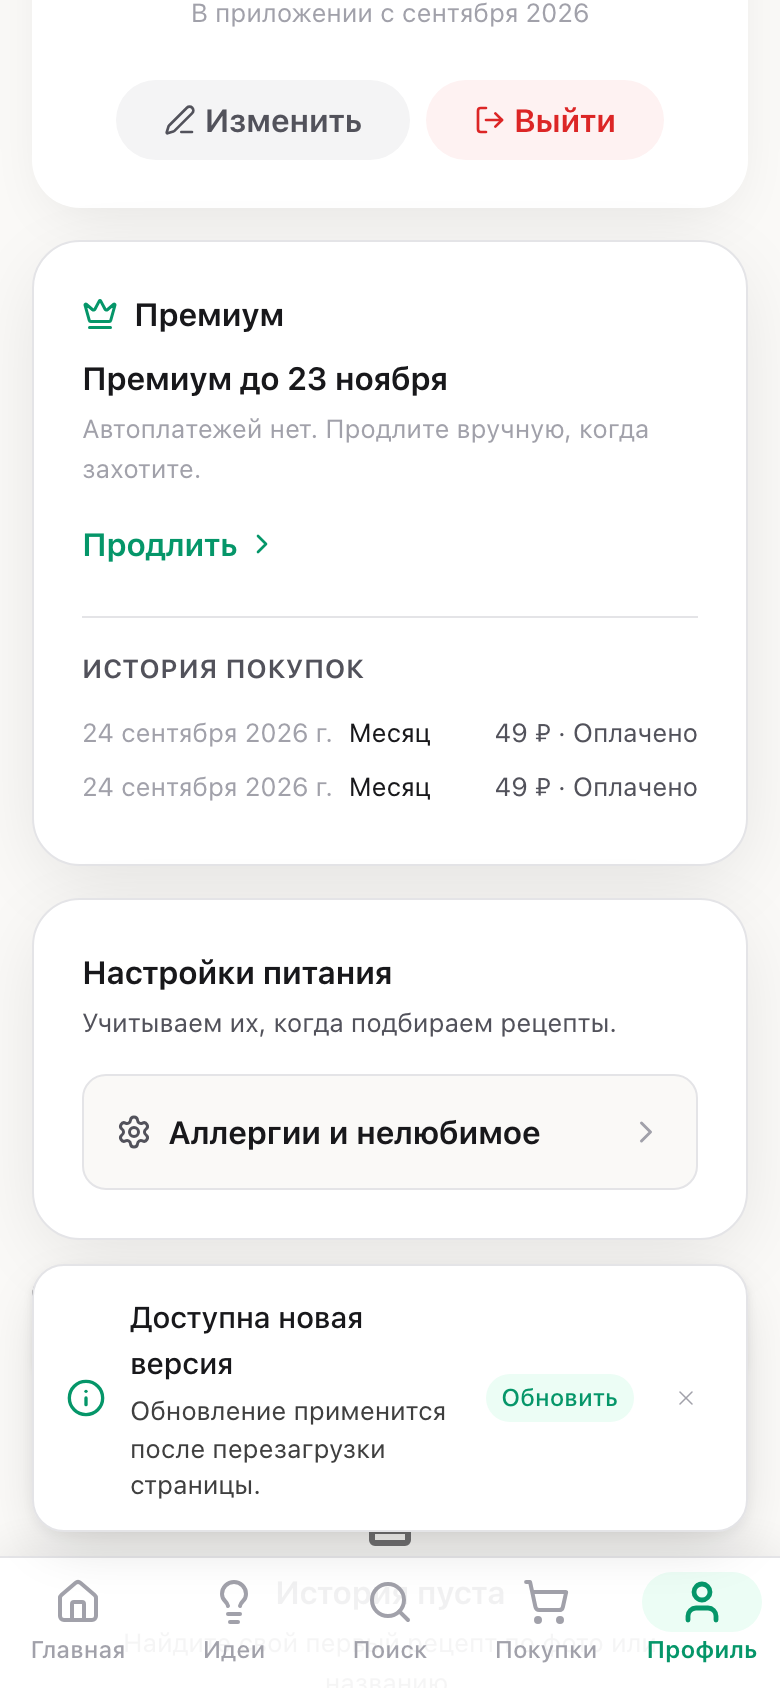
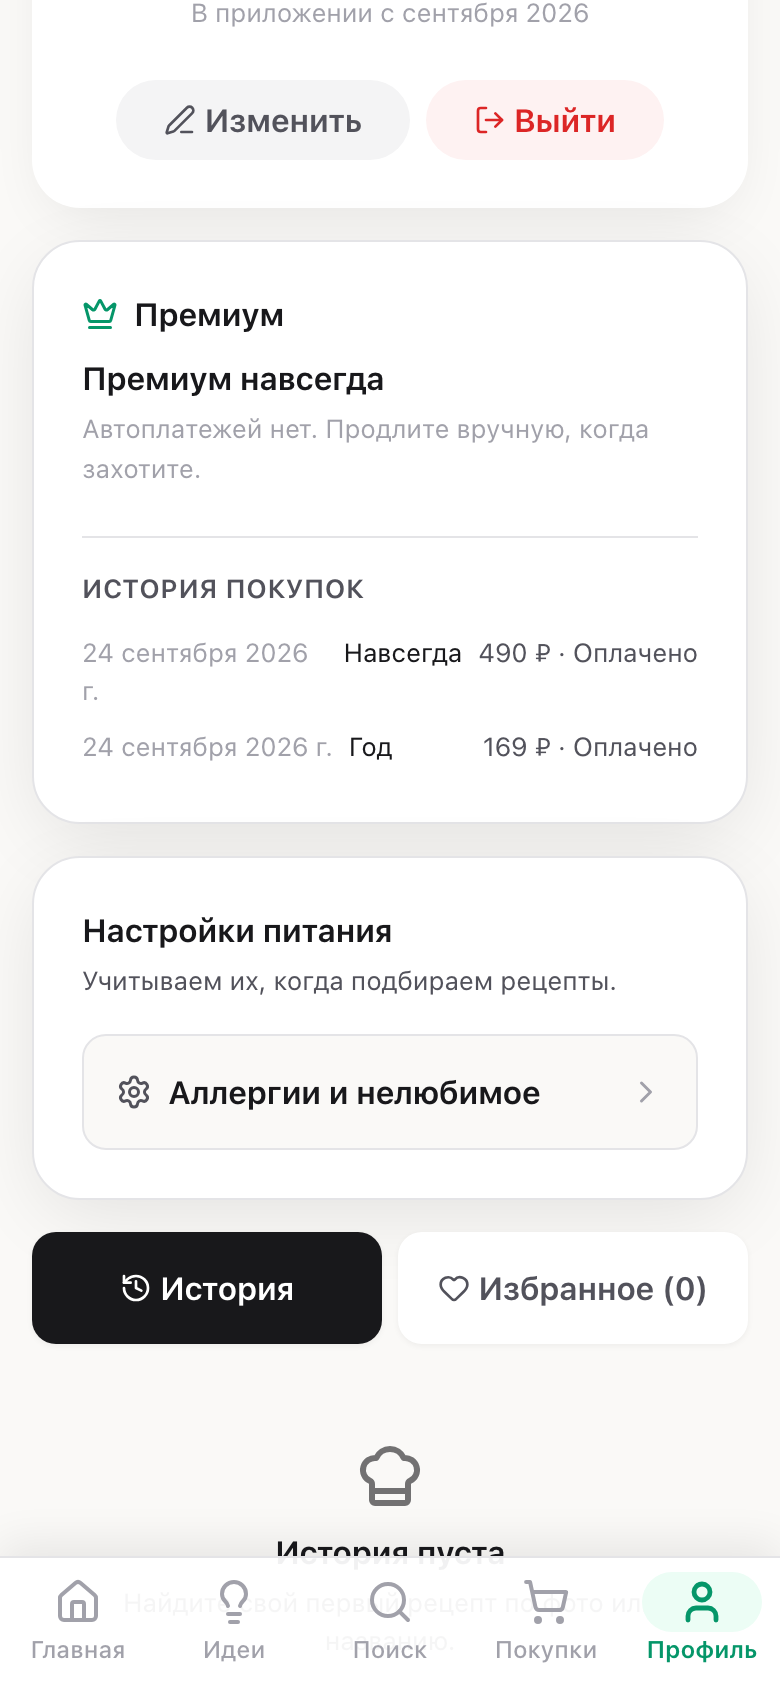
fix(premium): дата в истории покупок ломала строку
«24 сентября 2026 г.» переносилось на вторую строку и разрывало ряд.
Хвост « г.» добавляет русская локаль сама — места занимает, смысла не
добавляет. Убран, дата не переносится.

Заодно обновлены скриншоты приёмки: /premium, шторка и профиль пересняты
с ценами 169/490, добавлены меню админки и «Аналитика» после чистки.

diff --git a/components/premium/ProfilePremiumBlock.tsx b/components/premium/ProfilePremiumBlock.tsx
@@ -32,11 +32,14 @@ const PLAN_NAMES: Record<string, string> = {
 
 function formatDate(iso: string): string {
   try {
-    return new Date(iso).toLocaleDateString("ru-RU", {
-      day: "numeric",
-      month: "long",
-      year: "numeric",
-    });
+    return (
+      new Date(iso)
+        .toLocaleDateString("ru-RU", { day: "numeric", month: "long", year: "numeric" })
+        // Хвост « г.» русская локаль добавляет сама. В строке истории он
+        // занимает место ровно настолько, чтобы дата переносилась на вторую
+        // строку и ломала ряд — а смысла не добавляет.
+        .replace(/\s*г\.$/, "")
+    );
   } catch {
     return "";
   }
@@ -219,7 +222,9 @@ export default function ProfilePremiumBlock() {
                   fontSize: "var(--font-size-caption)",
                 }}
               >
-                <span style={{ color: "var(--color-text-muted)" }}>{formatDate(item.date)}</span>
+                <span style={{ whiteSpace: "nowrap", color: "var(--color-text-muted)" }}>
+                  {formatDate(item.date)}
+                </span>
                 <span style={{ flexGrow: 1, color: "var(--color-text)" }}>
                   {item.status === "gift"
                     ? `Подарок от SmartCook${item.label ? ` · ${item.label}` : ""}`

diff --git a/docs/premium/screens/README.md b/docs/premium/screens/README.md
@@ -1,12 +1,15 @@
-# Скриншоты приёмки Премиума (24.09.2026)
+# Скриншоты приёмки Премиума
 
 Сняты на превью ветки `feat/premium` при включённом `FEATURE_PREMIUM`.
 Экраны телефона — ровно 390 px шириной, как в макете.
 
+Обновлены 24.09.2026 под цены **169 ₽ в год / 490 ₽ навсегда** (тариф «Месяц»
+убран) и под вычищенную админку.
+
 | Файл | Что на нём |
 |---|---|
-| `01-premium.png` | `/premium` — сверено с макетом `premium-page.dc.html` |
-| `02-sheet-web.png` | Шторка «подборы закончились» на сайте (и строка «не осталось подборов» под кнопкой) |
+| `01-premium.png` | `/premium` — два тарифа, «Год» выбран сразу |
+| `02-sheet-web.png` | Шторка «подборы закончились» на сайте: «С Премиумом — без лимита, 169 ₽ в год» |
 | `03-sheet-ios.png` | Та же шторка в среде `native-ios` — без слова «Премиум», без цен, без ссылок |
 | `05-profile-free.png` | Профиль без Премиума |
 | `06-profile-premium.png` | Профиль с Премиумом и историей покупок |
@@ -14,12 +17,16 @@
 | `08-success.png` | `/premium/success` после подтверждённой оплаты |
 | `09-admin-payments.png` | Админка, раздел «Платежи» |
 | `10-admin-users.png` | Админка, раздел «Пользователи» |
+| `11-admin-menu.png` | Меню админки после чистки: без «Банкетов», «Новостей» и «Советов» |
+| `12-admin-analytics.png` | «Аналитика» после чистки: живой журнал, без банкетных плиток и колонки |
 
-**Два экрана сняты при временной настройке «1 бесплатный подбор в неделю»** —
-иначе лимит не упереть без десятка генераций: `02-sheet-web.png`,
-`03-sheet-ios.png`, а также `05`/`10`, где видно «из 1». После проверок
+**Шторка и профиль сняты при временной настройке «1 бесплатный подбор в
+неделю»** — иначе лимит не упереть без десятка генераций. После проверок
 настройка возвращена на 3, это подтверждено чтением значения обратно.
 
-Оплаты в `09` и `10` — тестовые заказы аккаунтов `test_premium_1/2/3`,
-проведённые случайным паролем Robokassa, заданным только для Preview.
-Как их убрать — в отчёте.
+Экраны `05`, `07`, `08`, `09`, `10` сняты до смены прайса и показывают прежние
+цены 49/390/990. Пересняты те, где цена видна и решает: `01`, `02`, `06`.
+
+Тестовые аккаунты `test_premium_*` и все созданные ими строки удалены из базы
+после проверок — в `premium_orders`, `premium_grants`, `user_premium` и
+`podbor_usage` снова пусто.
